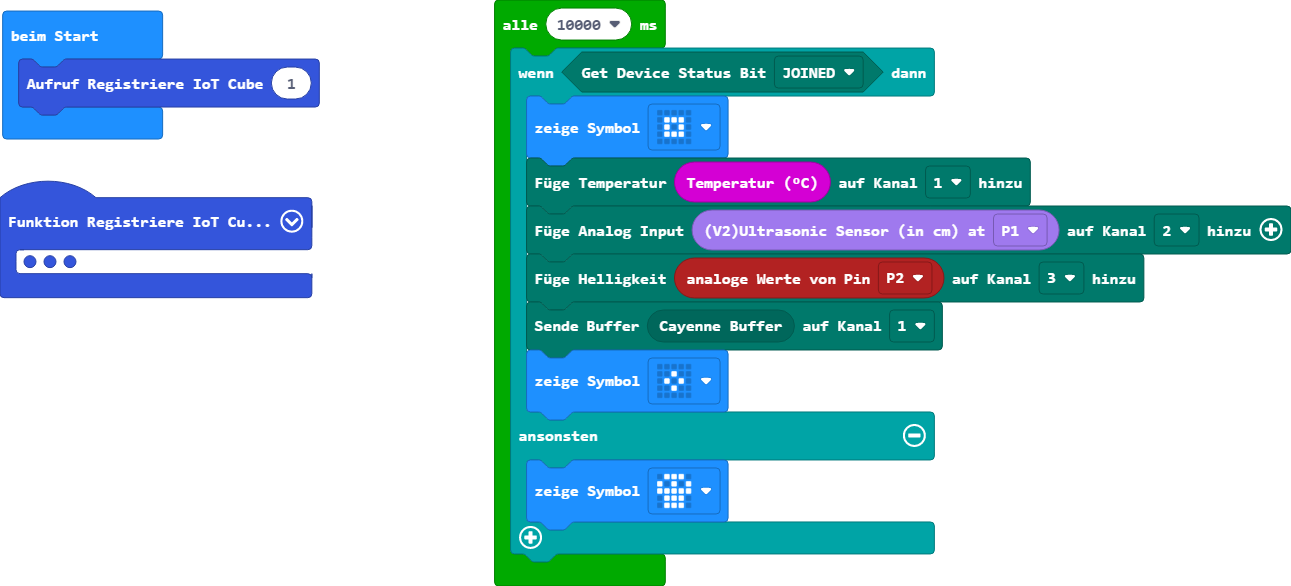
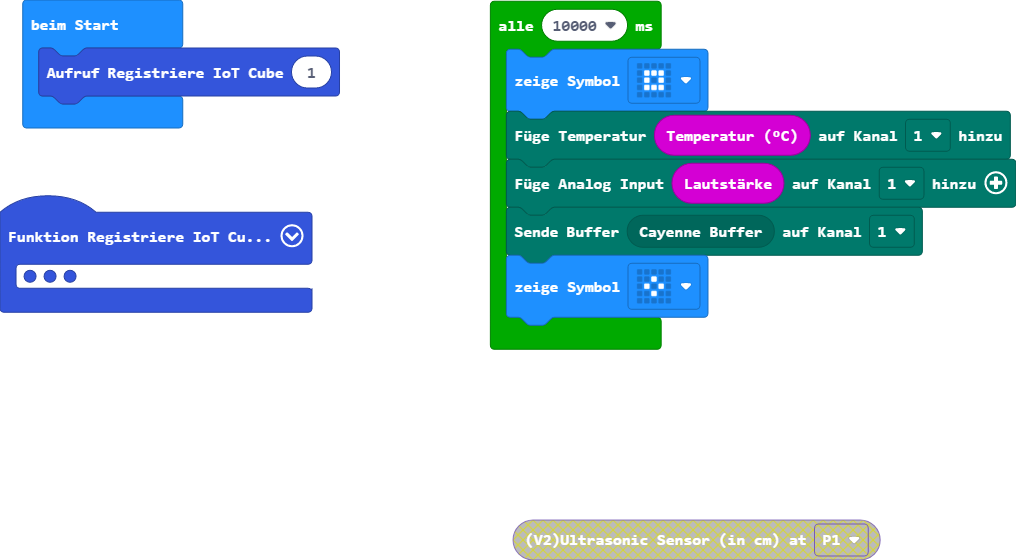
clavis Cloud integrated

diff --git a/main.ts b/main.ts
@@ -1,6 +1,15 @@
 function Registriere_IoT_Cube (CubeNummer: number) {
     if (CubeNummer == 1) {
         IoTCube.OTAA_Setup(
+        "0000000000000006",
+        "AC1F09FFFE083852",
+        "8B99F3EDC572772101EABF0C878B2B92",
+        eBands.EU868,
+        "A"
+        )
+    }
+    if (CubeNummer == 2) {
+        IoTCube.OTAA_Setup(
         "0000000000000001",
         "70B3D57ED005949E",
         "C34C16032D2016CC2310BE2380E9F6B5",
@@ -18,14 +27,9 @@ function Registriere_IoT_Cube (CubeNummer: number) {
 }
 Registriere_IoT_Cube(1)
 loops.everyInterval(10000, function () {
-    if (IoTCube.getStatus(eSTATUS_MASK.JOINED)) {
-        basic.showIcon(IconNames.SmallSquare)
-        IoTCube.addTemperature(input.temperature(), Channels.One)
-        IoTCube.addAnalogInput(grove.measureInCentimetersV2(DigitalPin.P1), Channels.Two)
-        IoTCube.addIlluminance(pins.analogReadPin(AnalogPin.P2), Channels.Three)
-        IoTCube.SendBuffer(IoTCube.getCayenne(), Channels.One)
-        basic.showIcon(IconNames.SmallDiamond)
-    } else {
-        basic.showIcon(IconNames.Skull)
-    }
+    basic.showIcon(IconNames.SmallSquare)
+    IoTCube.addTemperature(input.temperature(), Channels.One)
+    IoTCube.addAnalogInput(input.soundLevel(), Channels.One)
+    IoTCube.SendBuffer(IoTCube.getCayenne(), Channels.One)
+    basic.showIcon(IconNames.SmallDiamond)
 })
